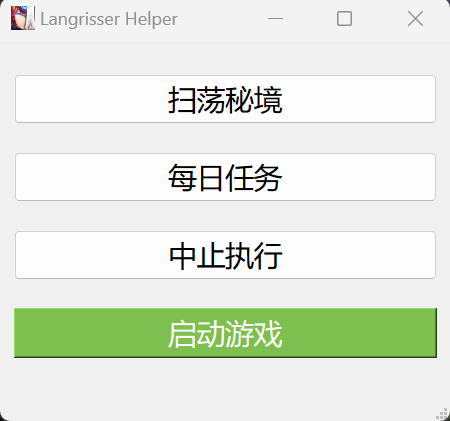
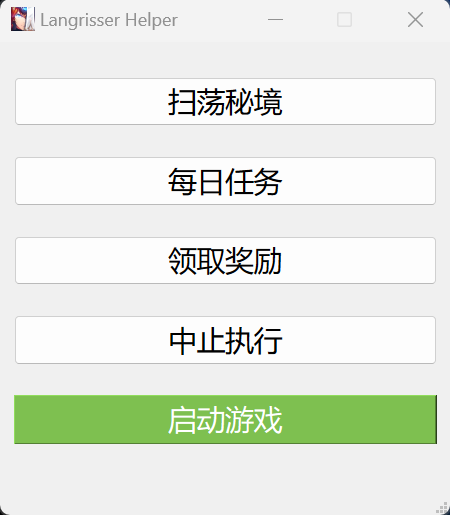
:tada: Release v0.4.0-beta.1

diff --git a/CHANGELOG.md b/CHANGELOG.md
@@ -1,6 +1,10 @@
-## [v0.3.0-beta.1](https://github.com/pcdd-group/LangrisserHelper/releases/tag/v0.3.0-beta.1) (2023-11-16)
+## [v0.4.0-beta.1](https://github.com/pcdd-group/LangrisserHelper/releases/tag/v0.4.0-beta.1) (2023-11-16)
 
 ### Features
 
-* GUI 上线 （Beta）
-* 新增启动/关闭游戏功能
+* 新增一键领取奖励功能
+
+### Others
+
+* 优化秘境扫荡兄贵
+* 固定窗口大小、禁用最大化

diff --git a/README.md b/README.md
@@ -8,6 +8,7 @@
 
 1. <del>支持刷任意副本，并且可以指定次数，宝箱奖励截图</del>(GUI 版待移植)
 2. 秘境扫荡
+3. 一键领取奖励
 
 :monocle_face: 局限性（后期针对性优化）
 
